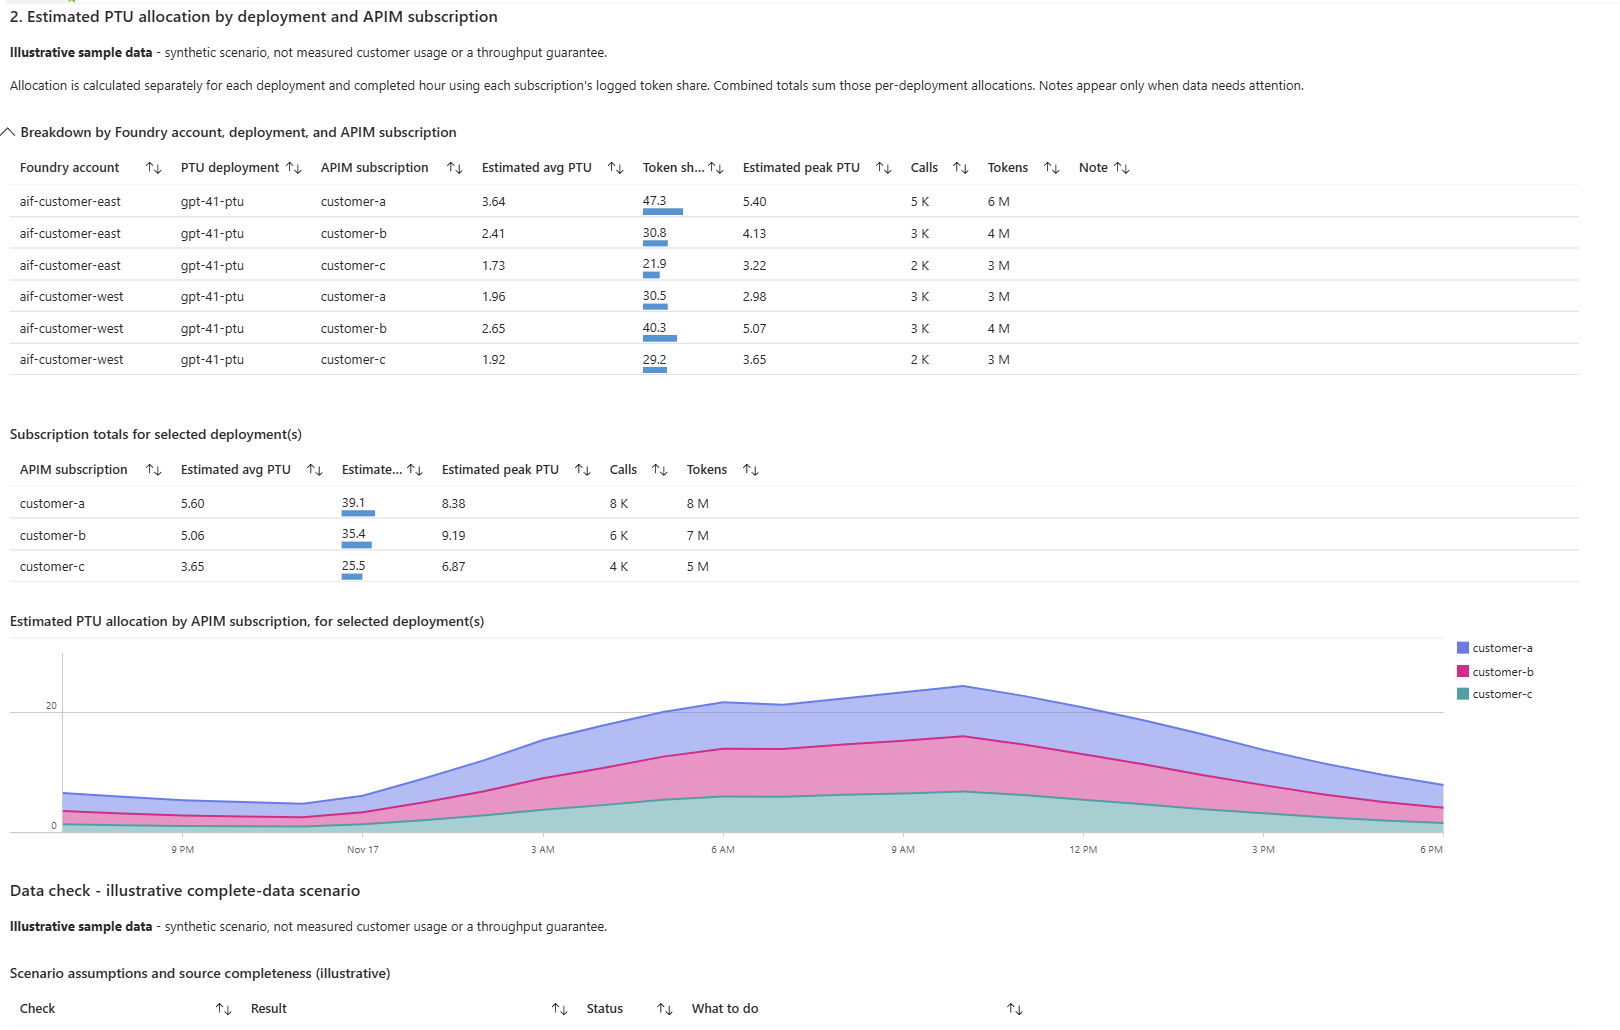
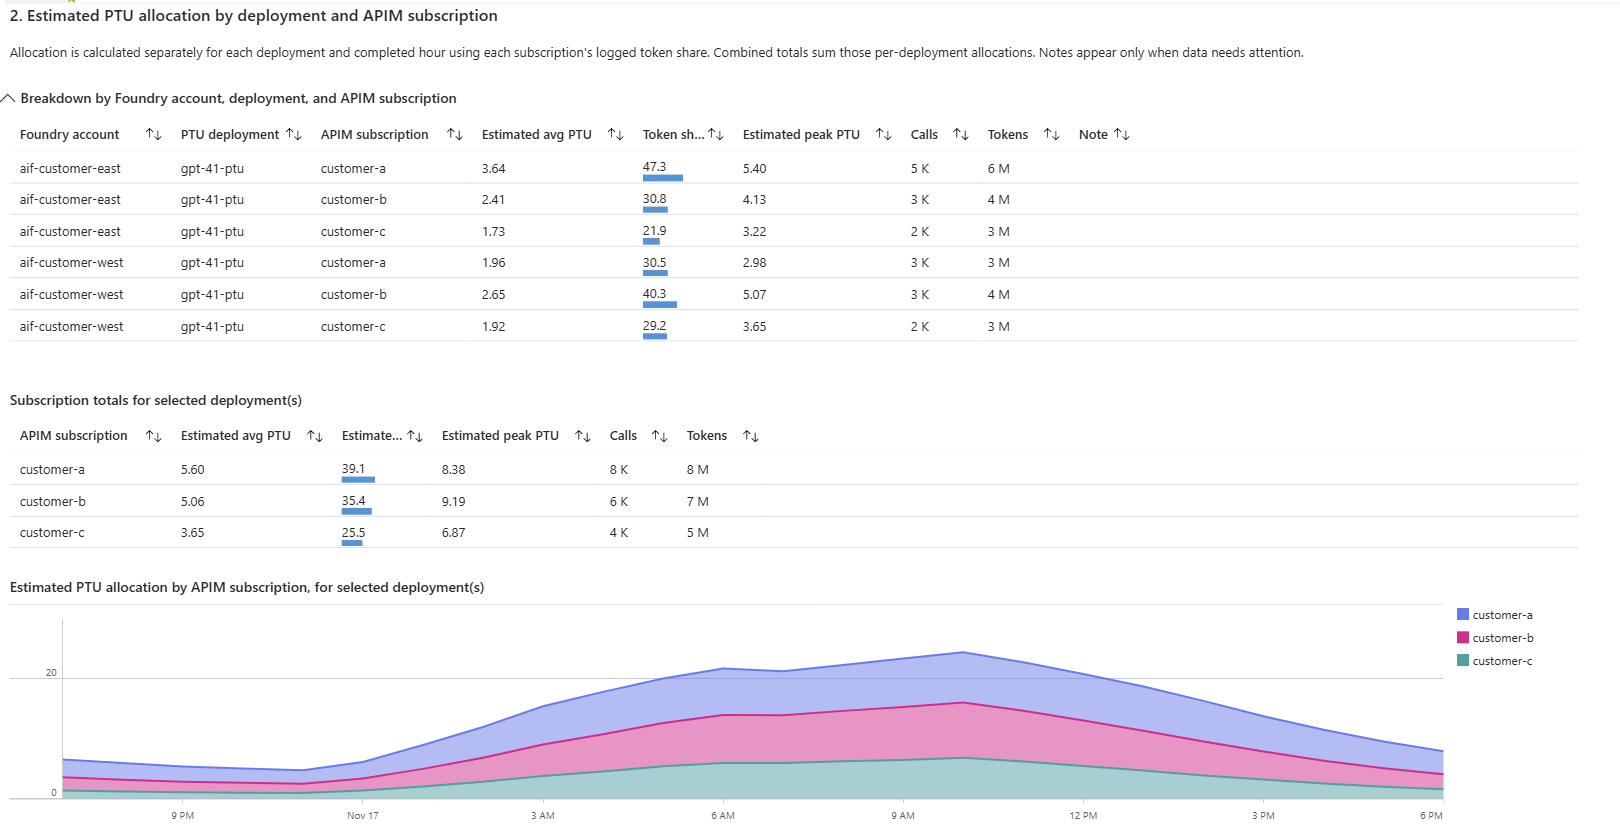
docs: simplify workbook screenshots and example-data caption

diff --git a/README.md b/README.md
@@ -4,8 +4,8 @@ Native Azure Monitor Workbooks for understanding Foundry model utilization
 alongside Azure API Management (APIM) traffic. The first workbook connects
 Foundry accounts and PTU deployments to APIM subscriptions.
 
-> This is a sample workbook, not a billing report or a Microsoft-supported
-> product. Validate the results in your environment before operational or
+> This workbook is not a billing report or a Microsoft-supported product.
+> Validate the results in your environment before operational or
 > financial use.
 
 ## Workbook
@@ -27,17 +27,15 @@ and APIM logs.
 
 ## See it in action
 
-> **Illustrative sample data:** These screenshots show a synthetic 24-hour
-> scenario across two Foundry deployments and three APIM subscriptions, not
-> measured customer usage or a throughput guarantee. Actual results depend on
-> traffic, logging coverage, and deployment history.
+*Example data: Screenshots use generated values, not measured customer usage
+or a throughput guarantee.*
 
 ### Deployment utilization
 
 Compare provisioned PTU capacity with average and peak utilization, and see
 how utilization changes throughout the day.
 
-![Illustrative workbook showing resource selectors, deployment capacity and utilization, and hourly utilization trends](docs/images/workbook-overview.png)
+![Workbook showing resource selectors, deployment capacity and utilization, and hourly utilization trends](docs/images/workbook-overview.png)
 
 ### PTU allocation by subscription
 
@@ -46,7 +44,7 @@ deployment, followed by combined subscription totals and the allocation trend.
 Estimates use each subscription's share of logged tokens, not directly metered
 capacity consumption.
 
-![Illustrative workbook showing per-deployment subscription breakdowns, combined totals, and estimated PTU allocation over time](docs/images/workbook-allocation.png)
+![Workbook showing per-deployment subscription breakdowns, combined totals, and estimated PTU allocation over time](docs/images/workbook-allocation.png)
 
 **[Set up the workbook with your Azure resources](docs/setup.md)**, or follow
 the quick start below.
